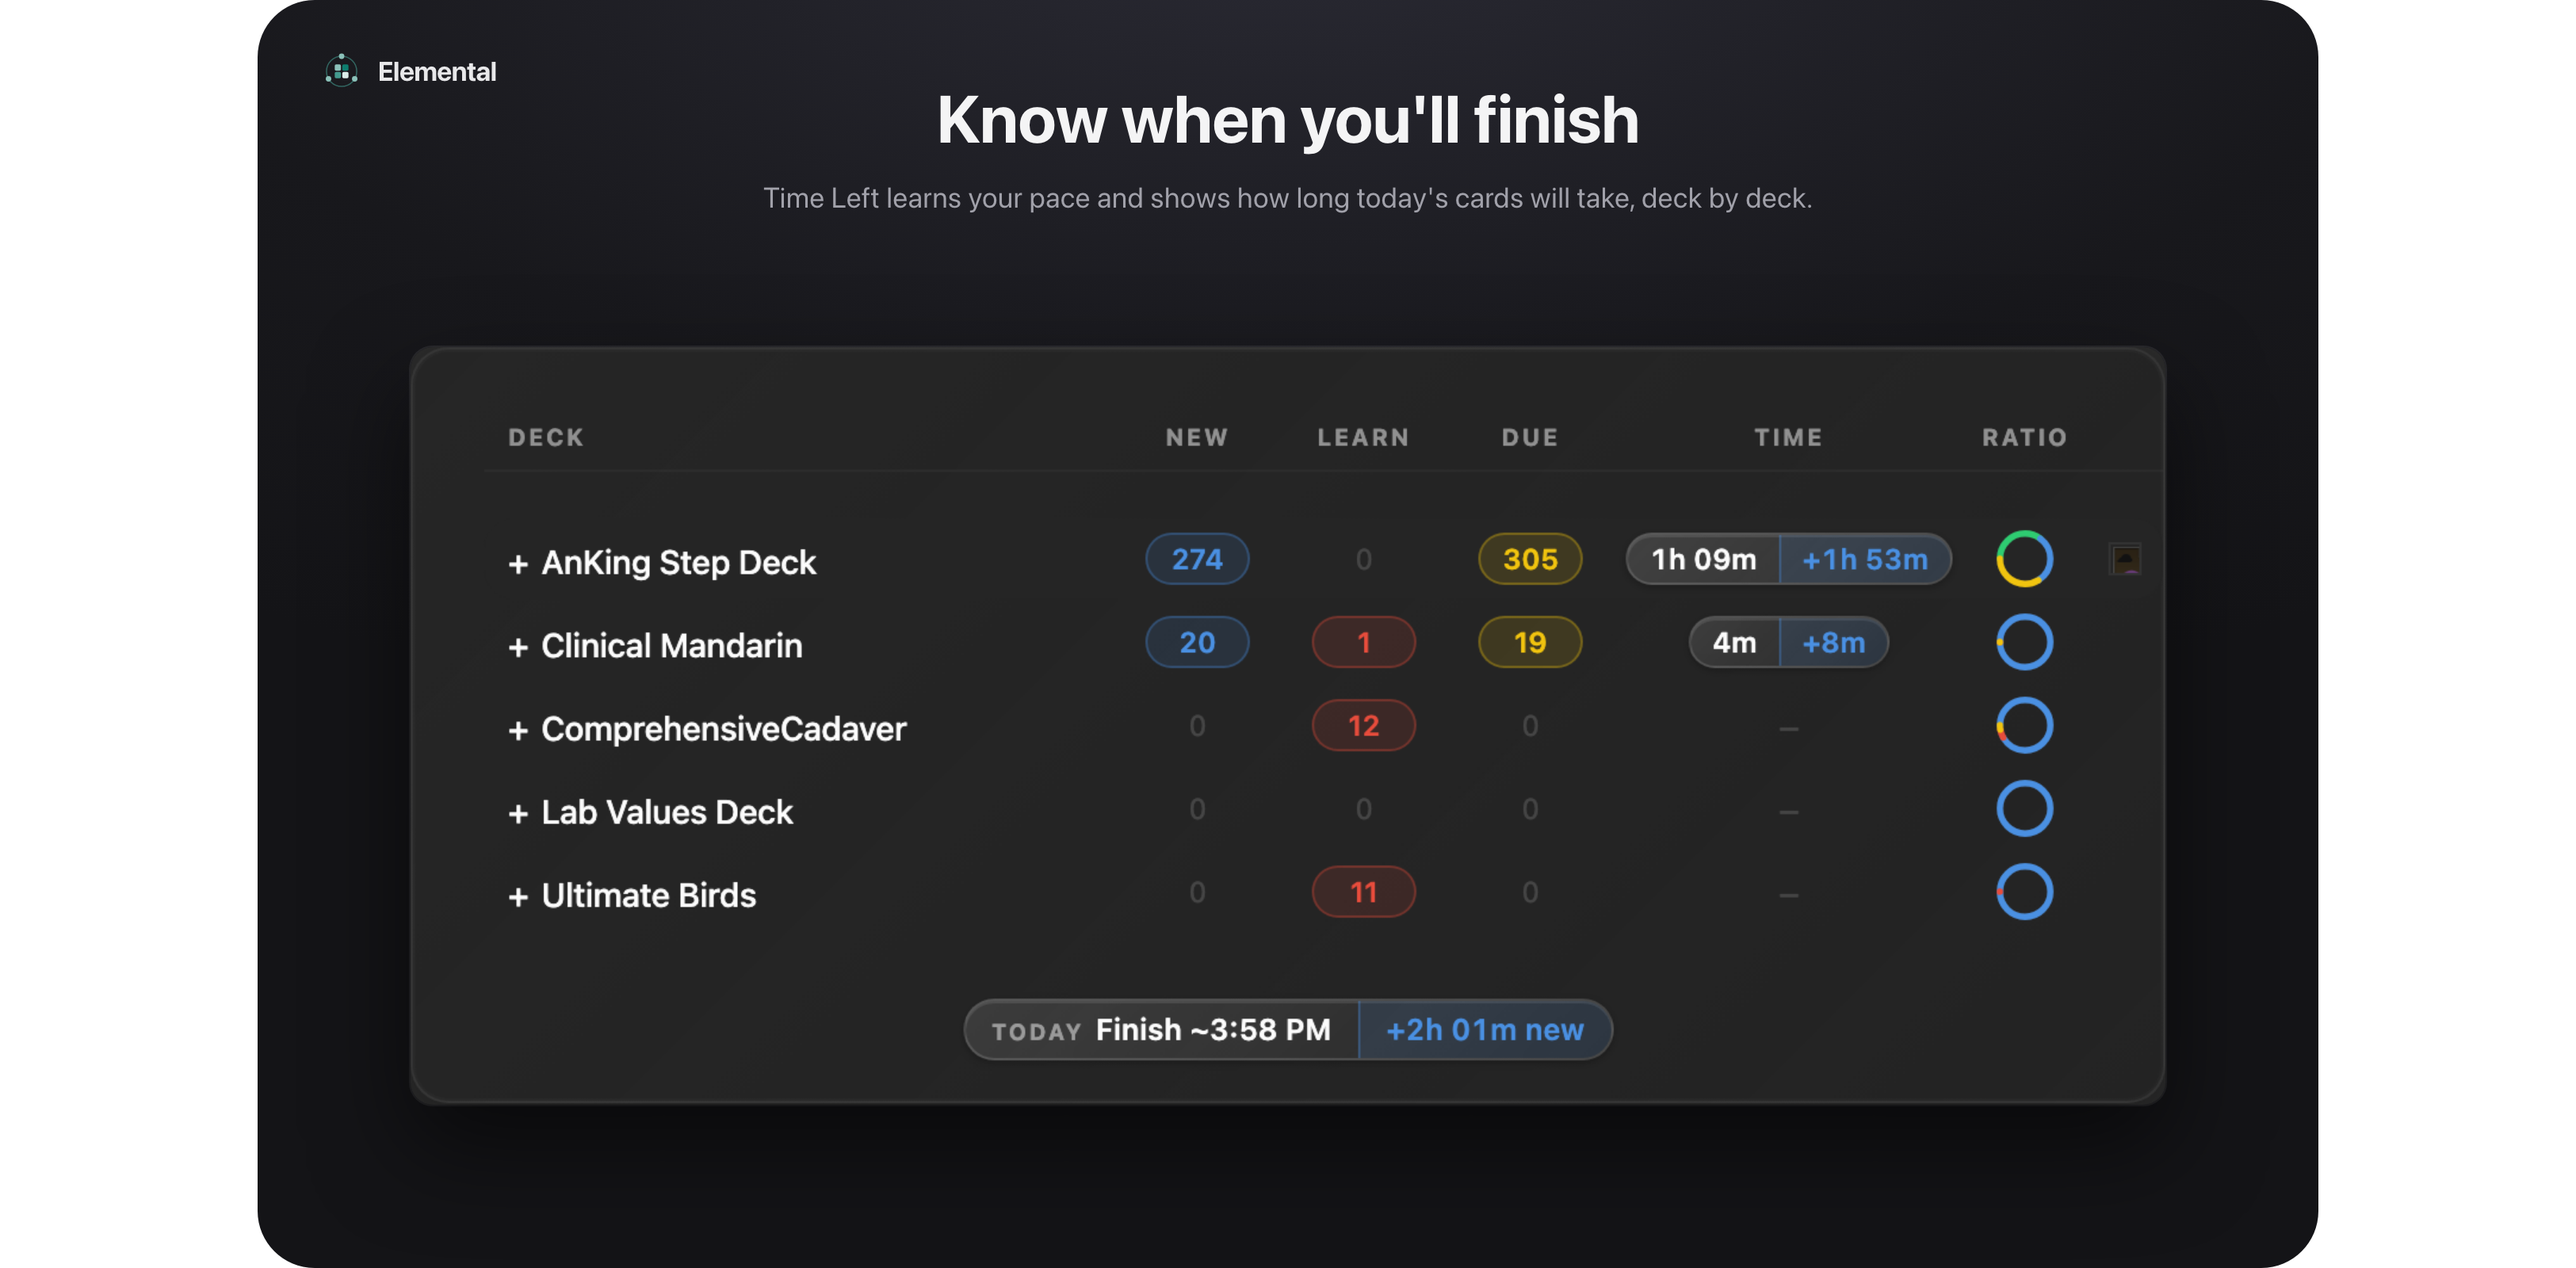
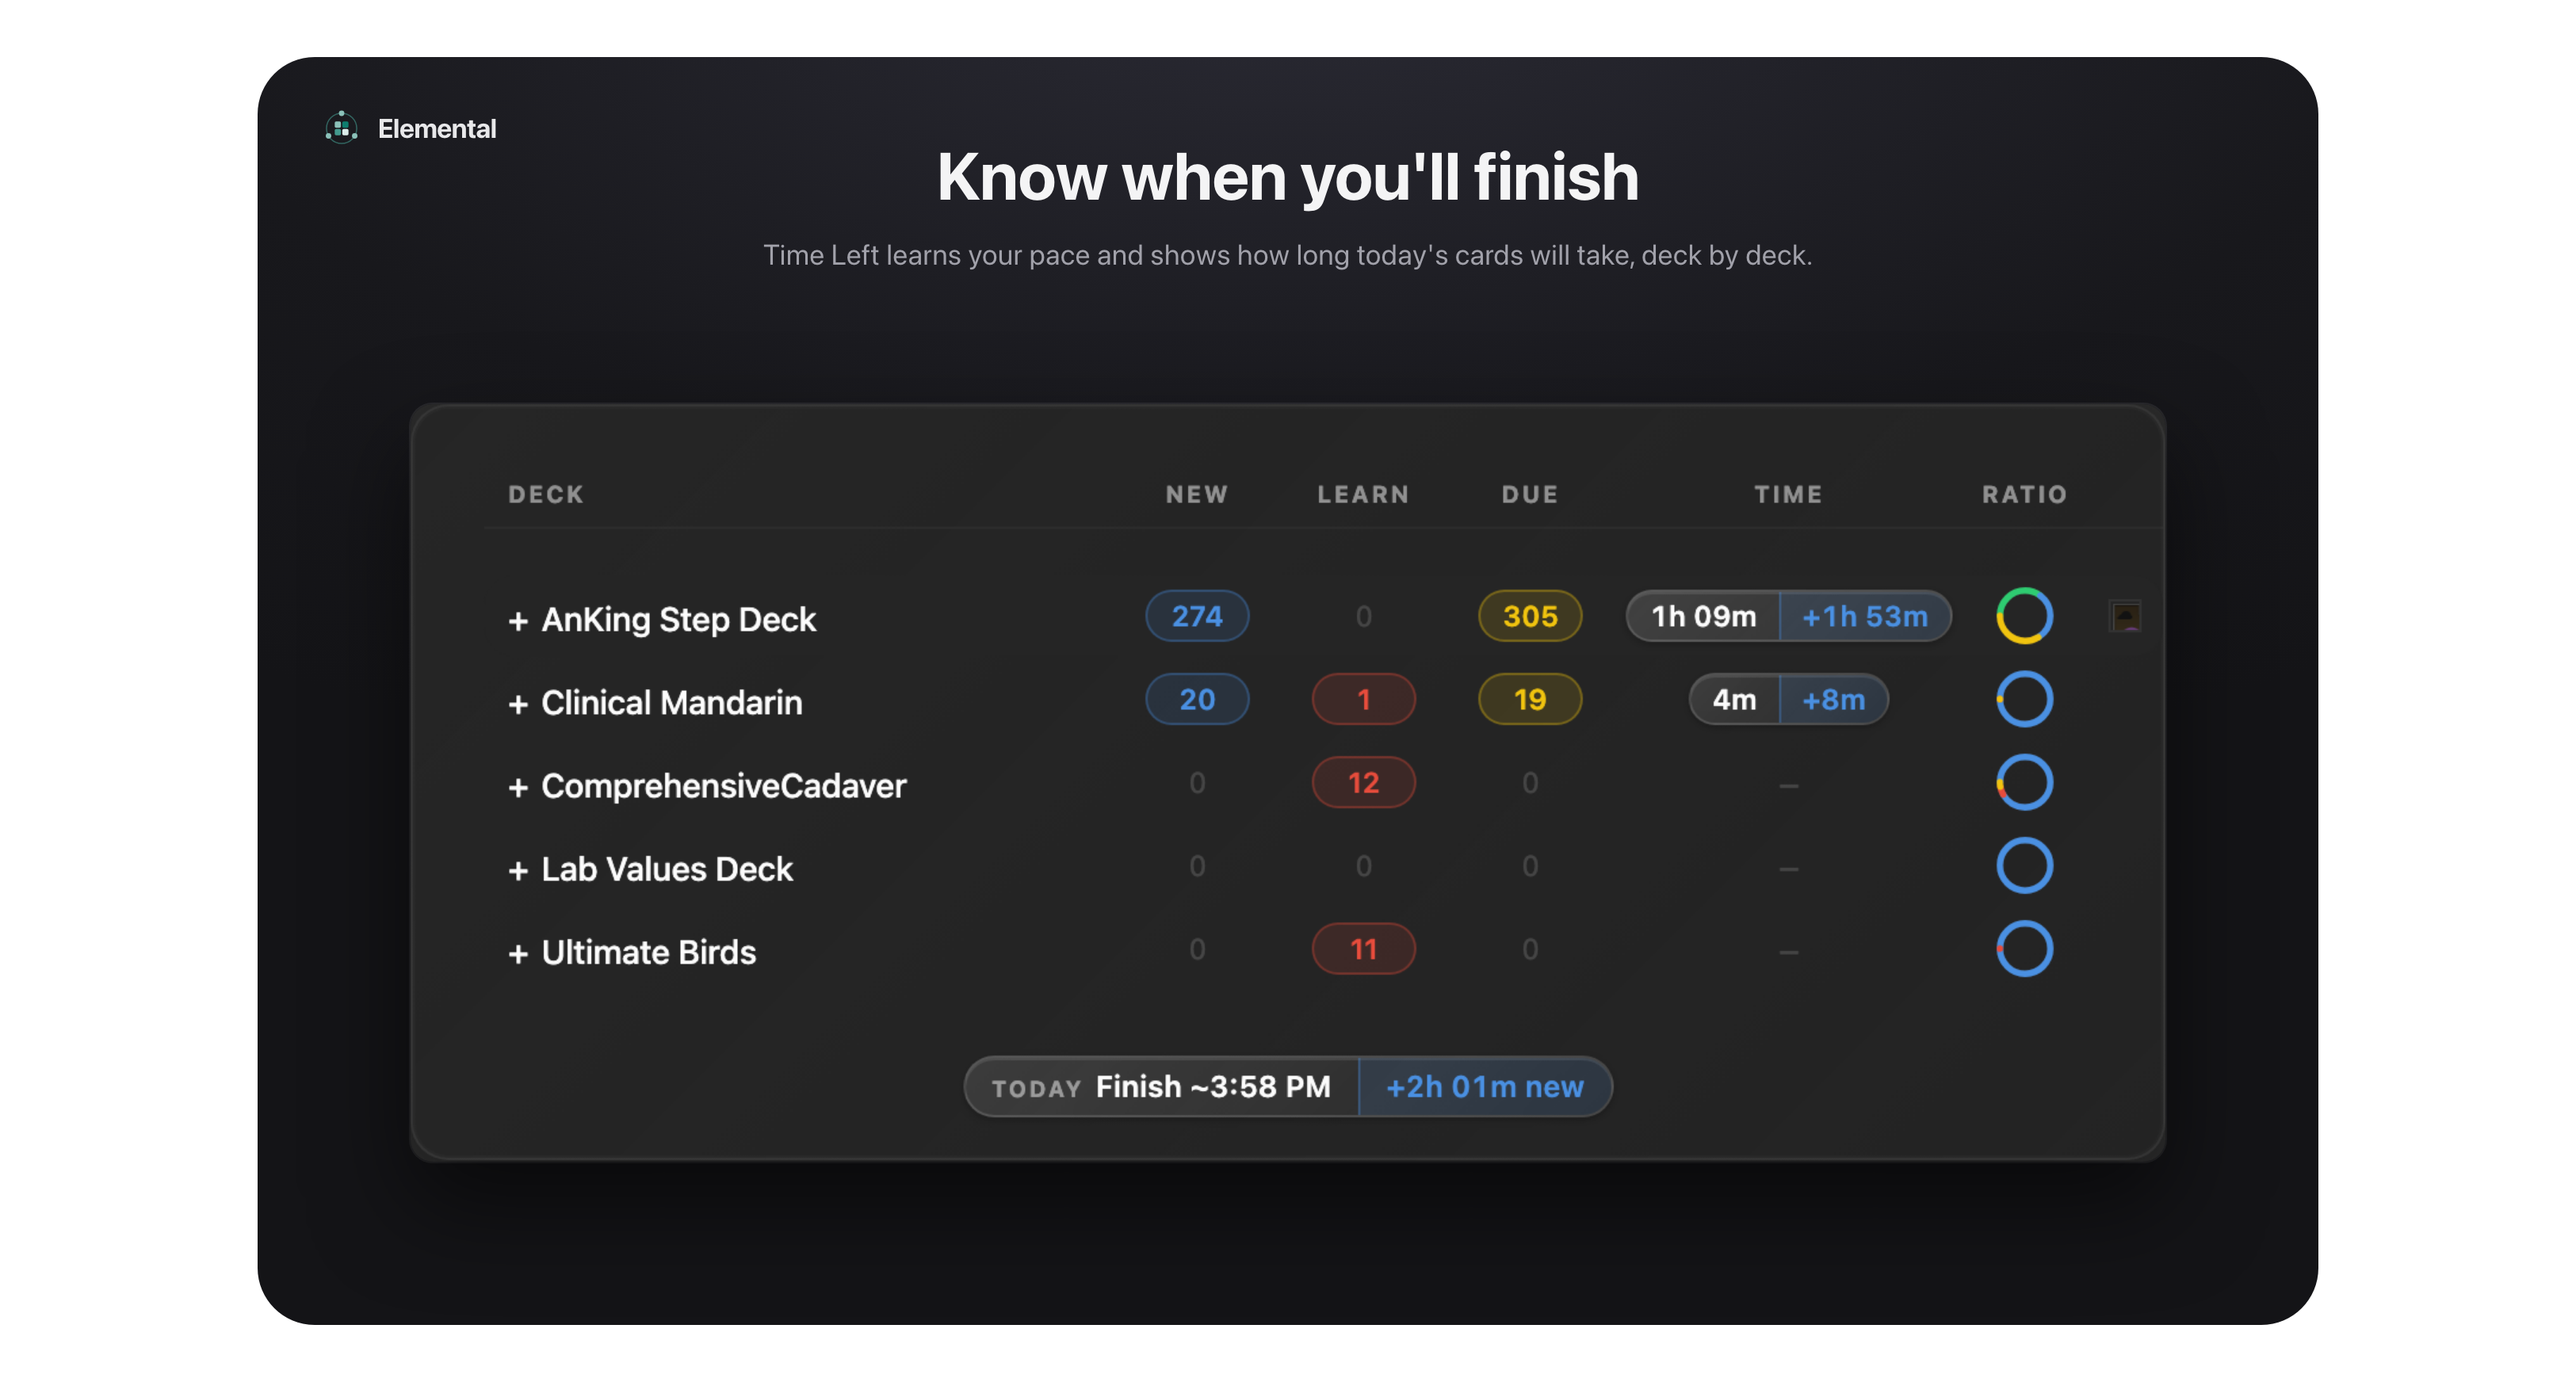
Stability poster, gaps between AnkiWeb images
- 17-weak-spots: topics with stability from the real Stats window
  (Endocrine Block expanded, Adrenal Pathophysiology at -29%)
- promo/AnkiWeb copies now have a white band above and below

diff --git a/promo/source/make_posters.py b/promo/source/make_posters.py
@@ -254,6 +254,34 @@ pages["05-themes"] = (1300, 800, f"""<style>{BASE}
 <div class="head"><h1>19 themes, and counting</h1><div class="sub">Each one in light and dark. Photo themes come with a matching background, and more themes are on the way.</div></div>
 <div class="grid">{tiles}</div>""")
 
+# 17: weak spots and stability, from the real Stats window (Repro Block expanded)
+def png(img, w, h, scale, extra=""):
+    url = "file://" + os.path.join(os.path.dirname(HERE), "promo", img)
+    return (f'<div class="shot" style="position:relative;width:{w*scale:.0f}px;height:{h*scale:.0f}px;'
+            f'background:url(\'{url}\') 0 0/{w*scale:.1f}px {h*scale:.1f}px no-repeat;{extra}"></div>')
+
+
+TS = 0.86
+pages["17-weak-spots"] = (1300, 800, f"""<style>{BASE}
+.mark{{position:absolute;left:40px;top:32px;font-size:17px;color:#e8e8ea}}
+.head{{text-align:center;padding-top:46px}}h1{{font-size:42px;font-weight:700;letter-spacing:-.5px;margin:0}}
+.sub{{font-size:18px;color:#a1a1aa;margin:10px 0 0}}
+.l{{position:absolute;left:52px;top:182px}}
+.r{{position:absolute;right:52px;top:182px;width:372px;display:flex;flex-direction:column;gap:22px}}
+.ring{{position:absolute;left:617px;top:255px;width:54px;height:25px;margin:-5px;border-radius:14px;box-shadow:0 0 0 2px {TEAL},0 0 18px rgba(111,209,192,.5)}}
+.note{{background:rgba(255,255,255,.05);border:1px solid rgba(255,255,255,.1);border-radius:14px;padding:18px 20px}}
+.note b{{display:block;font-size:34px;color:#f0a09a;letter-spacing:-.5px}}
+.note .t{{font-size:16px;font-weight:600;margin-top:4px}}.note .d{{font-size:14px;line-height:1.5;color:#a1a1aa;margin-top:8px}}
+.cap{{font-size:13px;font-weight:600;color:#c9d3d1;margin:0 0 8px 2px}}</style>
+<div class="mark">{logo(26)}Elemental</div>
+<div class="head"><h1>Find what isn't sticking</h1><div class="sub">Retention and stability for every topic, so weak memories show up before they turn into lapses.</div></div>
+<div class="l">{png("stats_topics_endo.png", 920, 669, TS, "")}<div class="ring"></div></div>
+<div class="r">
+<div class="note"><b>−29%</b><div class="t">Adrenal Pathophysiology</div>
+<div class="d">Cards in this topic are less stable than cards you started around the same time, even though Endocrine as a whole is only 4% behind.</div></div>
+{png("stats_remembered.png", 396, 224, 0.94)}
+</div>""")
+
 os.makedirs(os.path.join(HERE, "html"), exist_ok=True)
 with open(os.path.join(HERE, "list.txt"), "w") as lst:
     for name, (w, h, body) in pages.items():

diff --git a/promo/source/round_corners.py b/promo/source/round_corners.py
@@ -19,9 +19,10 @@ for f in sorted(os.listdir(SRC)):
     out.save(os.path.join(OUT, f))
 
 # AnkiWeb strips alignment, so the description's screenshots are centered by padding:
-# each Rounded poster on a white canvas 1/0.8 as wide, shown at width 100% (looks 80%, centered).
+# each Rounded poster on a white canvas 1/0.8 as wide, shown at width 100% (looks 80%, centered),
+# with a white band above and below so stacked images have a gap.
 AW = os.path.join(SRC, "AnkiWeb"); os.makedirs(AW, exist_ok=True)
-for n in ["01-at-a-glance", "04-review-pill", "09-day-details", "03-time-left", "02-six-views", "05-themes", "06-card-browser", "07-settings"]:
-    im = QImage(os.path.join(OUT, n + ".png")); W = round(im.width() / 0.8)
-    pad = QImage(W, im.height(), QImage.Format.Format_RGB32); pad.fill(QColor("#ffffff"))
-    p = QPainter(pad); p.drawImage((W - im.width()) // 2, 0, im); p.end(); pad.save(os.path.join(AW, n + ".png"))
+for n in ["01-at-a-glance", "04-review-pill", "09-day-details", "17-weak-spots", "03-time-left", "02-six-views", "05-themes", "06-card-browser", "07-settings"]:
+    im = QImage(os.path.join(OUT, n + ".png")); W = round(im.width() / 0.8); gap = round(0.045 * im.height())
+    pad = QImage(W, im.height() + 2 * gap, QImage.Format.Format_RGB32); pad.fill(QColor("#ffffff"))   # white band above and below: the gap between images
+    p = QPainter(pad); p.drawImage((W - im.width()) // 2, gap, im); p.end(); pad.save(os.path.join(AW, n + ".png"))
